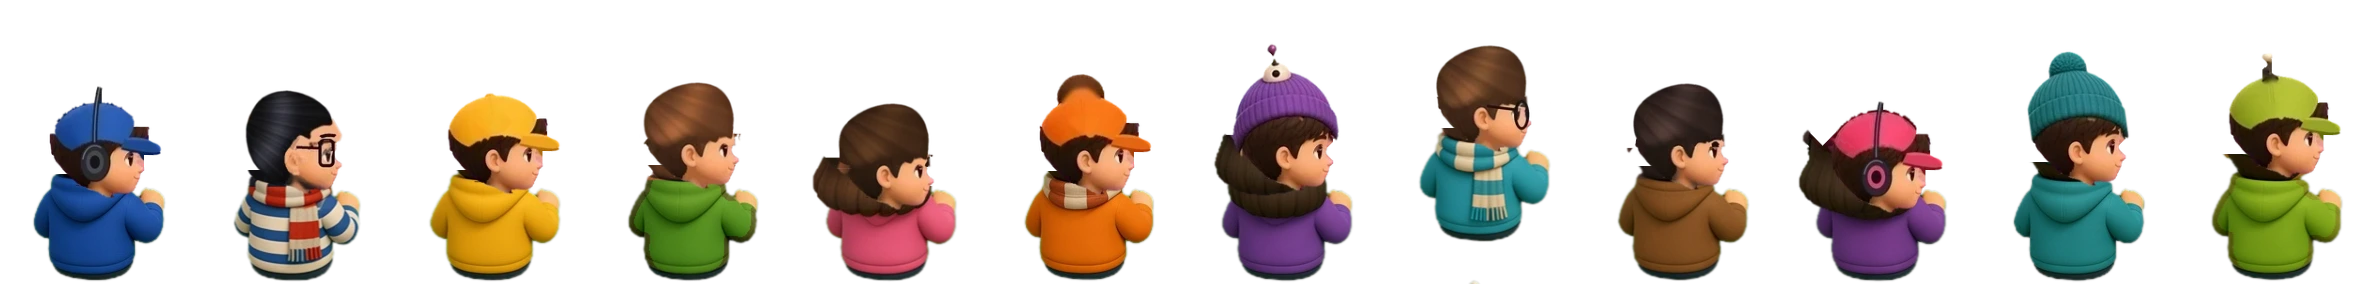
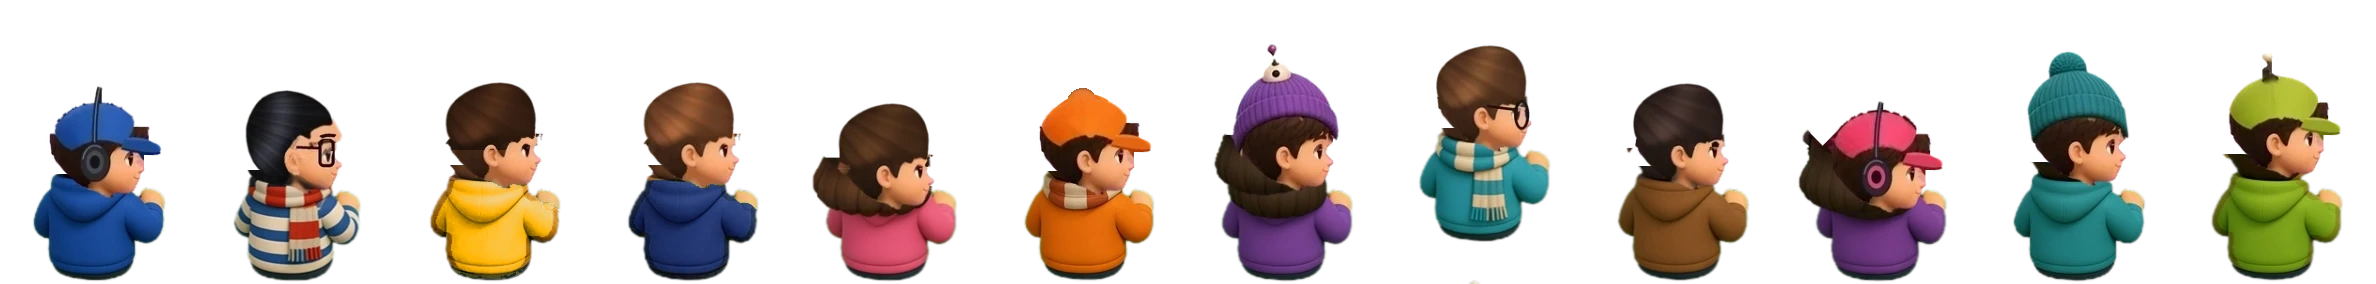
Characters and corgis: Cyber without the bun, Studio without the cap, LF in navy, dogs get fed snacks
- Cyber: the hair bun on the cap is gone and the cap's crown drawn on, in every view (back, front, side walk, all turn angles).
- Studio: no cap; drawn from LF's art with Studio's yellow hoodie and dark hair.
- LF: dark blue hoodie instead of green.
- Snack time: now and then a corgi asks a bot for food. It begs, dreaming of a biscuit; the bot turns to it, reaches into its
  hoodie pocket, holds a bone biscuit down to the dog, and the dog munches it in three bites with crumbs and little hearts.
  New mood `feed` in DOG_MOODS. The arm is drawn in the full picture only (TV lite keeps the begging and turning).
- Tools: portable/art/run-chars.js (from the pictures at 2eb30a1, safe to run again).

Changed region(s): [[0.1557, 0.2817, 0.3426, 0.9859], [0.436, 0.2535, 0.4672, 0.3662]]

diff --git a/public/office2d/main.js b/public/office2d/main.js
@@ -10,7 +10,7 @@ import { makeFx, glowSprite, px, polyPath } from './fx.js';
 import { BOTS, behaviorOf, LOITER, DOG_MOODS, DOG, WALK, PROPS, QUALITY, LITE, REFRESH } from './config.js';
 
 const STATIC = !!window.AC_STATIC; // GitHub Pages build (bin/pages-build.sh): relative URLs, state.json polled instead of /api/*
-const PW = 1280, PH = 720, A = (STATIC ? '' : '/') + 'office2d/assets/', V = '?v=25'; // V: busts the 1 h asset cache when the art set changes
+const PW = 1280, PH = 720, A = (STATIC ? '' : '/') + 'office2d/assets/', V = '?v=26'; // V: busts the 1 h asset cache when the art set changes
 const q = new URLSearchParams(location.search);
 const DEMO = q.get('demo') === '1', EMBED = q.get('embed') === '1', NOTAGS = q.get('notags') === '1'; // notags: screenshot aid only
 if (EMBED) document.body.classList.add('embed');
@@ -300,8 +300,8 @@ function turnTo(w, to, dur, dir, done) { // ease the body from where it is to `t
   P.from = P.b; P.to = to; P.t = 0; P.dur = dur * Math.max(0.55, Math.min(1, Math.abs(to - P.b) / 3)); P.p = 0; P.done = done || null; P.hold = 0; P.after = null;
   if (Math.abs(to - P.b) < 1e-3) { P.dur = 0; if (done) done(); }
 }
-function startTurn(w, hold, dir) {
-  if (!w || w.walk || w.seat.bag || w.seat.stand || w.seat.roam || w.chatting || w.pose.dur > 0 || w.pose.b > 0 || turnedNow() >= 2 || !L.turn.sprites[w.sprite]) return false; // no turn art (Dashboards): no idle turns
+function startTurn(w, hold, dir, force) { // force: a dog is being fed, the two-at-once limit does not apply
+  if (!w || w.walk || w.seat.bag || w.seat.stand || w.seat.roam || w.chatting || w.pose.dur > 0 || w.pose.b > 0 || (!force && turnedNow() >= 2) || !L.turn.sprites[w.sprite]) return false; // no turn art (Dashboards): no idle turns
   const P = w.pose;
   turnTo(w, rnd() < 0.65 ? 4 : 3, TURN_T, dir || (rnd() < 0.5 ? 1 : -1), () => { P.hold = hold ?? 2 + rnd() * 3; P.after = () => turnTo(w, 0, TURN_T + 0.1 * rnd()); });
   return true;
@@ -896,6 +896,19 @@ function dogMood(m, w) {
       const [node] = nearestNode(...at());
       return dogGo(node, span(1, 1.3), seq);
     }
+    case 'feed': { // ask a bot for food: sit, beg (dreaming of a biscuit), then the bot feeds it (stepFeeds / drawFeeds drive the rest)
+      w = w || pickFriend();
+      if (!w) return dogMood('rest');
+      d.by = w;
+      const at = () => w.walk ? [w.walk.x, w.walk.y] : w.seat.feet, face = () => { d.face = at()[0] > d.x ? 1 : -1; };
+      const serve = () => { face(); const side = d.x < at()[0] ? -1 : 1; let ok = true;
+        if (w.walk) w.walk.face = side; else if (w.seat.roam) w.dogLook = side;
+        else { const P = w.pose; if (P.b > 1.5 && P.dur === 0 && !w.chatting) { P.hold = Math.max(P.hold, 6.5); if (!P.after) P.after = () => turnTo(w, 0, TURN_T); } else ok = startTurn(w, 7.5, side, true); } // already turned round: it just stays a while
+        if (!ok) { d.seq = [['beg', span(1.2, 2)], ['sit', 1]]; return; } // busy right now: no snack this time
+        feeds.push({ w, d, side, t: w.walk || w.seat.roam ? -0.3 : -1.1, crumbs: [] }); }; // a seated bot swivels round first
+      const [node] = nearestNode(...at());
+      return dogGo(node, span(1, 1.3), [['sit', span(0.6, 1.1), face], ['beg', span(2.2, 3), () => { face(); d.think = 2.8; }], ['beg', 6, serve], ['sit', span(1, 2)]]);
+    }
     case 'nap': { const c = L.dog.rest.filter(r => r[1] === 'sleep'), r = c[(rnd() * c.length) | 0]; return dogGo(r[0], span(0.6, 0.9), [['sleep', span(30, 95)]]); }
     case 'rest': { const c = L.dog.rest.filter(r => r[1] === 'lie'), r = c[(rnd() * c.length) | 0]; return dogGo(r[0], span(0.6, 0.95), [['lie', span(14, 42)]]); }
     case 'beg': {
@@ -909,7 +922,7 @@ function dogMood(m, w) {
   }
 }
 function dogNext() {
-  const kb = loungeBots().length, M = DOG_MOODS, W = [['wander', M.wander], ['affection', DEMO ? 34 : M.affection], ['ask', M.ask], ['belly', M.belly], ['nap', M.nap], ['rest', M.rest], ['beg', kb ? M.begWithVisitors : M.beg], ['zoomies', M.zoomies]];
+  const kb = loungeBots().length, M = DOG_MOODS, W = [['wander', M.wander], ['affection', DEMO ? 34 : M.affection], ['ask', M.ask], ['belly', M.belly], ['nap', M.nap], ['rest', M.rest], ['beg', kb ? M.begWithVisitors : M.beg], ['zoomies', M.zoomies], ['feed', M.feed || 0]];
   let r = rnd() * W.reduce((a, b) => a + b[1], 0);
   for (const [m, wt] of W) if ((r -= wt) <= 0) return dogMood(m);
   dogMood('wander');
@@ -917,9 +930,12 @@ function dogNext() {
 function dogPetted(w) { const d = dog = w.walk.petDog; d.mood = 'happy'; d.by = w; d.path = []; d.v = 0; d.zoom = 0; d.face = w.walk.x > d.x ? 1 : -1; d.seq = [['happy', 3.6], ['sit', span(2, 4)]]; dogSeq(); dog = dogs[0]; }
 D.dogPut = (i, node) => { const d = dogs[i]; d.path = []; d.seq = []; d.v = 0; d.node = node; [d.x, d.y] = d.N[node]; d.pose = 'sit'; d.t = 600; return [d.x, d.y]; };
 D.dogAt = (i, x, y, pose = 'walk') => { const d = dogs[i]; d.path = []; d.seq = []; d.v = 0; d.x = x; d.y = y; d.pose = pose === 'walk' ? 'sniff' : pose; d.t = 600; return [d.x, d.y]; };
+D.dogFeed = (name, i = 0) => { const w = findWorker(name); if (!w || !dogs[i]) return false; dog = dogs[i]; dog.path = []; dog.seq = []; dog.v = 0; dogMood('feed', w); dog = dogs[0]; return true; }; // check aid
+D.feeds = () => feeds.map(f => ({ bot: f.w.bot.name, t: +f.t.toFixed(2), abort: !!f.abort }));
 D.dogMood = m => { if (!dog) return false; dog.path = []; dog.seq = []; dog.v = 0; dogMood(m); return true; };
 function stepDog(dt) {
   const d = dog;
+  if (d.think > 0) d.think -= dt;
   d.fs += (d.face - d.fs) * Math.min(1, dt * 9);
   if (d.pose !== 'walk') { if ((d.t -= dt) <= 0) dogSeq(); }
   else {
@@ -950,6 +966,7 @@ function drawDog(d, t) {
   else if (pose === 'beg') { sy = 1 + Math.sin(t * 3.4) * 0.022; rot = Math.sin(t * 5.5) * 0.02; }
   else if (pose === 'happy') { hop = Math.abs(Math.sin(t * 6.2)) * H * 0.075; rot = Math.sin(t * 12.4) * 0.03; }
   else if (pose === 'belly') { rot = Math.sin(t * 4.6) * 0.035; sy = 1 + Math.sin(t * 9) * 0.012; }
+  else if (pose === 'eat') { const c = Math.sin(t * 17); sy = 1 + c * 0.02; rot = 0.02 + Math.sin(t * 8.5) * 0.035; hop = Math.max(0, c) * H * 0.012; } // munching
   else if (pose === 'walk') hop = Math.abs(Math.sin(d.ph * Math.PI / 3)) * H * 0.012 * Math.min(2, d.pace);
   const dir = (d.fs < 0 ? -1 : 1) * Math.max(0.22, Math.abs(d.fs));
   P();
@@ -962,8 +979,83 @@ function drawDog(d, t) {
     ctx.globalAlpha = Math.sin(p * Math.PI) * 0.75;
     ctx.drawImage(zSpr, d.x + d.face * W * 0.3 + p * H * 0.28 - s / 2, d.y - H * 0.52 - p * H * 0.7 - s / 2, s, s);
   }
+  if (pose === 'eat') for (let i = 0; i < 3; i++) { // yum: little hearts rise while it munches
+    const p = (t * 0.55 + i / 3) % 1, s = H * (0.12 + 0.1 * p);
+    ctx.globalAlpha = Math.sin(p * Math.PI) * 0.85;
+    ctx.drawImage(heartSpr, d.x + d.face * W * 0.15 + Math.sin(p * 6 + i) * H * 0.12 - s / 2, d.y - H * 0.85 - p * H * 0.6 - s / 2, s, s);
+  }
+  if (d.think > 0) { const a = Math.min(1, d.think / 0.3, (3.1 - d.think) / 0.3), bw = H * 0.62, bh = bw * 0.75, bob = Math.sin(t * 2.4) * H * 0.02; // dreaming of a biscuit
+    ctx.globalAlpha = Math.max(0, a); ctx.drawImage(boneBubble, d.x + d.face * W * 0.18 - bw * 0.25, d.y - H * 1.05 - bh + bob, bw, bh); }
   ctx.globalAlpha = 1;
 }
+
+// ---------- snack time (David, 2026-11-10): now and then a dog asks a bot for food. It sits, begs and dreams of a biscuit; the bot turns
+// to it, reaches into its hoodie pocket, rummages, brings out a bone biscuit and holds it down to the dog's mouth; the dog eats it in three
+// bites (crumbs, little hearts), then hops about happily. Everything eases; the arm is drawn over the bot (sleeve in the bot's own hoodie
+// colour, then the hand). Full picture only: the lite (TV) picture keeps the begging and the turning, without the arm. ----------
+const feeds = [], FEED = { pocket: 0.45, out: 1.2, mouth: 2.25, bites: 3, eat: 3.1, done: 3.85 };
+const sleeveOf = (() => { const memo = {}; return w => { const k = w.sprite; if (memo[k]) return memo[k]; let c = '#7a6a8a'; try { const im = fronts[k], t = mk(1, 1), g = t.getContext('2d', { willReadFrequently: true }); g.drawImage(im, im.width * 0.3, im.height * 0.8, 6, 6, 0, 0, 1, 1); const d = g.getImageData(0, 0, 1, 1).data; c = `rgb(${d[0]},${d[1]},${d[2]})`; } catch (e) {} return (memo[k] = c); }; })();
+const dogDims = d => { const C = L.corgi, hu = hAt(d.y), [cw, ch] = C.cell, W = 0.507 * DOG.size * hu / C.bodyW; return [W, W * ch / cw]; };
+const mouthOf = d => { const [W, H] = dogDims(d), f = d.face < 0 ? -1 : 1; return [d.x + f * W * 0.3, d.y - H * (d.pose === 'beg' ? 0.74 : 0.62)]; };
+function stepFeeds(dt) {
+  for (let i = feeds.length - 1; i >= 0; i--) {
+    const f = feeds[i], w = f.w, d = f.d, prev = f.t; f.t += dt;
+    const gone = w.walk ? w.walk.phase !== 'hang' && w.walk.phase !== 'talk' : w.seat.roam ? false : w.pose.b < 2 && f.t > 0.2 && f.t < FEED.eat; // the bot walked off or turned back
+    if (gone && !f.abort) { f.abort = true; f.t = Math.max(f.t, FEED.eat); }
+    if (!f.abort && prev < FEED.out && f.t >= FEED.out && w.walk) say(w.walk, ['here you go!', 'good pup 🍪', 'snack time!'][(rnd() * 3) | 0], 2.2);
+    if (!f.abort && prev < FEED.mouth && f.t >= FEED.mouth && d.by === w && d.mood === 'feed') { d.pose = 'eat'; d.t = 2.6; d.seq = [['happy', span(1.8, 2.6), () => { d.face = (w.walk ? w.walk.x : w.seat.feet[0]) > d.x ? 1 : -1; }], ['sit', span(1, 2)]]; }
+    if (!f.abort) for (let b = 0; b < FEED.bites; b++) { const tb = FEED.mouth + 0.12 + b * 0.27; if (prev < tb && f.t >= tb) { const [mx, my] = mouthOf(d), s = dogDims(d)[1] * 0.05; for (let j = 0; j < 4; j++) f.crumbs.push({ x: mx, y: my, vx: (rnd() - 0.5) * s * 9, vy: -rnd() * s * 6, life: 0.7 + rnd() * 0.4, s: s * (0.25 + rnd() * 0.3) }); } }
+    for (const c of f.crumbs) { c.life -= dt; c.vy += 140 * dt * (c.s > 0 ? 1 : 0); c.x += c.vx * dt; c.y += c.vy * dt; }
+    f.crumbs = f.crumbs.filter(c => c.life > 0);
+    if (f.t > FEED.done + 0.8) feeds.splice(i, 1);
+  }
+}
+function drawBiscuit(x, y, s, rot) { // a little bone biscuit
+  ctx.save(); ctx.translate(x, y); ctx.rotate(rot);
+  ctx.fillStyle = '#9a6a3c'; for (const [a, b] of [[-1, -0.55], [-1, 0.55], [1, -0.55], [1, 0.55]]) { ctx.beginPath(); ctx.arc(a * s * 0.95, b * s * 0.62, s * 0.52, 0, 7); ctx.fill(); }
+  ctx.fillRect(-s, -s * 0.42, s * 2, s * 0.84);
+  ctx.fillStyle = '#e9c48c'; for (const [a, b] of [[-1, -0.55], [-1, 0.55], [1, -0.55], [1, 0.55]]) { ctx.beginPath(); ctx.arc(a * s * 0.95, b * s * 0.62, s * 0.4, 0, 7); ctx.fill(); }
+  ctx.fillRect(-s, -s * 0.3, s * 2, s * 0.6); ctx.fillStyle = 'rgba(255,245,225,.6)'; ctx.fillRect(-s * 0.8, -s * 0.24, s * 1.4, s * 0.14);
+  ctx.restore();
+}
+function drawFeeds(t) {
+  if (!feeds.length) return;
+  P();
+  for (const f of feeds) {
+    const w = f.w, d = f.d, b = w.box, bw = b[2] - b[0], bh = b[3] - b[1], cx = (b[0] + b[2]) / 2, seated = !w.walk && !w.seat.roam, side = f.side;
+    for (const c of f.crumbs) { ctx.globalAlpha = Math.min(1, c.life * 2); ctx.fillStyle = '#d7aa6a'; ctx.beginPath(); ctx.arc(c.x, c.y, Math.max(0.6, c.s), 0, 7); ctx.fill(); }
+    ctx.globalAlpha = 1;
+    if (f.t < 0 || f.t > FEED.done) continue;
+    const sh = [cx + side * bw * (seated ? 0.17 : 0.27), b[1] + bh * (seated ? 0.46 : 0.47)], pk = [cx + side * bw * (seated ? 0.07 : 0.11), b[1] + bh * (seated ? 0.57 : 0.62)];
+    const [mx, my] = mouthOf(d), s = Math.max(2.2, dogDims(d)[1] * 0.075), hand = [mx - (d.face < 0 ? -1 : 1) * s * 1.5, my + s * 0.2];
+    const T = f.t, E = q => q * q * (3 - 2 * q), lerp2 = (a, c, q) => [a[0] + (c[0] - a[0]) * q, a[1] + (c[1] - a[1]) * q];
+    let p, alpha = 1, snack = 0;
+    if (T < FEED.pocket) { p = lerp2(sh, pk, E(T / FEED.pocket)); alpha = Math.min(1, T / 0.15); }
+    else if (T < FEED.out) p = [pk[0] + Math.sin(T * 28) * s * 0.3, pk[1] + Math.sin(T * 21) * s * 0.2]; // rummaging in the pocket
+    else if (T < FEED.mouth) { const q = E((T - FEED.out) / (FEED.mouth - FEED.out)), ctl = [(pk[0] + hand[0]) / 2, Math.min(pk[1], hand[1]) - bh * 0.1];
+      p = [(1 - q) * (1 - q) * pk[0] + 2 * (1 - q) * q * ctl[0] + q * q * hand[0], (1 - q) * (1 - q) * pk[1] + 2 * (1 - q) * q * ctl[1] + q * q * hand[1]]; snack = 1; }
+    else if (T < FEED.eat) { const bi = Math.min(FEED.bites, Math.floor((T - FEED.mouth - 0.12) / 0.27) + 1); p = [hand[0] + Math.sin((T - FEED.mouth) * 23) * s * 0.12, hand[1]]; snack = [1, 0.68, 0.38, 0][Math.max(0, bi)]; }
+    else { const q = E(Math.min(1, (T - FEED.eat) / (FEED.done - FEED.eat))); p = lerp2(hand, sh, q); alpha = 1 - Math.max(0, (q - 0.6) / 0.4); }
+    if (f.abort) snack = 0;
+    // the arm: shoulder -> elbow (bent out and down a little) -> wrist, a soft dark edge under the sleeve
+    const dx = p[0] - sh[0], dy = p[1] - sh[1], len = Math.hypot(dx, dy) || 1, nx = -dy / len, ny = dx / len, bend = Math.min(bh * 0.07, len * 0.22) * (ny > 0 ? 1 : -1) * side;
+    const el = [(sh[0] + p[0]) / 2 + nx * bend, (sh[1] + p[1]) / 2 + ny * bend], th = bh * (seated ? 0.05 : 0.055);
+    ctx.globalAlpha = alpha; ctx.lineCap = 'round'; ctx.lineJoin = 'round';
+    ctx.strokeStyle = 'rgba(20,14,24,.55)'; ctx.lineWidth = th + 1.6; ctx.beginPath(); ctx.moveTo(...sh); ctx.quadraticCurveTo(...el, ...p); ctx.stroke();
+    ctx.strokeStyle = sleeveOf(w); ctx.lineWidth = th; ctx.beginPath(); ctx.moveTo(...sh); ctx.quadraticCurveTo(...el, ...p); ctx.stroke();
+    ctx.strokeStyle = 'rgba(255,255,255,.14)'; ctx.lineWidth = th * 0.35; ctx.beginPath(); ctx.moveTo(sh[0] - nx * th * 0.2, sh[1] - ny * th * 0.2); ctx.quadraticCurveTo(el[0] - nx * th * 0.2, el[1] - ny * th * 0.2, p[0], p[1]); ctx.stroke();
+    if (snack > 0) drawBiscuit(p[0] + (d.face < 0 ? 1 : -1) * -s * 0.9, p[1] - s * 0.15, s * 0.62 * snack, -0.35 * (d.face < 0 ? -1 : 1));
+    ctx.fillStyle = '#5a3a2c'; ctx.beginPath(); ctx.ellipse(p[0], p[1], th * 0.62, th * 0.55, 0, 0, 7); ctx.fill();
+    ctx.fillStyle = '#f3c6a2'; ctx.beginPath(); ctx.ellipse(p[0], p[1], th * 0.5, th * 0.45, 0, 0, 7); ctx.fill();
+    ctx.fillStyle = 'rgba(255,240,228,.5)'; ctx.beginPath(); ctx.ellipse(p[0] - th * 0.12, p[1] - th * 0.14, th * 0.2, th * 0.13, 0, 0, 7); ctx.fill();
+    ctx.globalAlpha = 1;
+  }
+}
+const heartSpr = (() => { const c = mk(48, 48), g = c.getContext('2d'); g.font = '700 34px sans-serif'; g.textAlign = 'center'; g.textBaseline = 'middle'; g.shadowColor = 'rgba(255,170,190,.9)'; g.shadowBlur = 6; g.fillStyle = '#ff7aa2'; g.fillText('♥', 24, 26); return c; })();
+const boneBubble = (() => { const c = mk(96, 72), g = c.getContext('2d'); g.fillStyle = 'rgba(255,255,255,.94)'; g.strokeStyle = 'rgba(60,40,50,.35)'; g.lineWidth = 2;
+  g.beginPath(); g.roundRect(8, 4, 80, 46, 22); g.fill(); g.stroke(); for (const [x, y, r] of [[30, 56, 6], [20, 66, 4]]) { g.beginPath(); g.arc(x, y, r, 0, 7); g.fill(); g.stroke(); }
+  g.save(); g.translate(48, 27); g.rotate(-0.25); g.fillStyle = '#c99858'; for (const [a, b] of [[-1, -1], [-1, 1], [1, -1], [1, 1]]) { g.beginPath(); g.arc(a * 17, b * 6, 7, 0, 7); g.fill(); } g.fillRect(-17, -5, 34, 10);
+  g.fillStyle = '#efd09c'; for (const [a, b] of [[-1, -1], [-1, 1], [1, -1], [1, 1]]) { g.beginPath(); g.arc(a * 17, b * 6, 5.4, 0, 7); g.fill(); } g.fillRect(-17, -3.6, 34, 7.2); g.restore(); return c; })();
 
 // ---------- boss desk FX: screen glow, scanline shimmer on the 2 curved monitors ----------
 const scanSpr = (() => { const c = mk(64, 128), g = c.getContext('2d');
@@ -1380,6 +1472,7 @@ function render(t, dt) {
   const redraw = (screenT -= dt) <= 0; if (redraw) screenT = 0.12;
   const walking = sortItems();
   for (let i = 0; i < items.length; i++) drawItem(items[i], t, redraw);
+  drawFeeds(t);
   drawErrorGlows(t);
   fx.lamps(ctx, t, env, lampTint);
   fx.motes(ctx, t, dt, env);
@@ -1554,7 +1647,7 @@ function frame(now) {
   }
   maybeDemo(t); if (pending.length) pump(now);
   stepChat(dt); stepAmbient(dt);
-  if (dogs.length) { for (const d of dogs) { dog = d; stepDog(dt); } dog = dogs[0]; }
+  if (dogs.length) { for (const d of dogs) { dog = d; stepDog(dt); } dog = dogs[0]; stepFeeds(dt); }
   if ((labelT -= dt) <= 0) { labelT = LABEL_EVERY; refreshLabels(); }
   if (qual.lite) renderLite(t, dt); else render(t, dt);
   fpsN++; D.frames++;

diff --git a/portable/art/chars.js b/portable/art/chars.js
@@ -1,0 +1,91 @@
+// Character fixes (David, 2026-11-10), run in a browser page by portable/art/run-chars.js. Not loaded by the site.
+//  - Cyber (sprite 5): the hair bun on top of the cap is taken off and the cap's crown drawn on where it sat.
+//  - Studio (sprite 2): no cap. Studio is drawn from LF's art (the same chibi, same pose), the hoodie recoloured to Studio's own
+//    yellow and the hair darkened to the dark brown that showed under the cap.
+//  - LF (sprite 3): dark blue hoodie instead of green.
+// Every picture a bot is drawn from is changed: back (wNN.png), front (fNN.png), side walk (walk-side.webp), turning heads and bodies.
+// Input: the pictures as they were at commit 2eb30a1 (src), so this can run again. Output: window.__charsOut (data URLs).
+const im = s => new Promise((ok, no) => { const i = new Image(); i.onload = () => ok(i); i.onerror = () => no(new Error('load ' + s)); i.src = s; });
+const cv = (w, h) => { const c = document.createElement('canvas'); c.width = w; c.height = h; return c; };
+const cx = c => c.getContext('2d', { willReadFrequently: true });
+function hsl(r, g, b) { r /= 255; g /= 255; b /= 255; const mx = Math.max(r, g, b), mn = Math.min(r, g, b), l = (mx + mn) / 2; if (mx === mn) return [0, 0, l]; const d = mx - mn, s = l > 0.5 ? d / (2 - mx - mn) : d / (mx + mn); let h = mx === r ? (g - b) / d + (g < b ? 6 : 0) : mx === g ? (b - r) / d + 2 : (r - g) / d + 4; return [h * 60, s, l]; }
+function rgb(h, s, l) { h = ((h % 360) + 360) % 360 / 360; if (!s) return [l * 255, l * 255, l * 255]; const q = l < 0.5 ? l * (1 + s) : l + s - l * s, p = 2 * l - q, f = t => { t = (t + 1) % 1; return 255 * (t < 1 / 6 ? p + (q - p) * 6 * t : t < 0.5 ? q : t < 2 / 3 ? p + (q - p) * (2 / 3 - t) * 6 : p); }; return [f(h + 1 / 3), f(h), f(h - 1 / 3)]; }
+const isGreen = (h, s, l) => h >= 58 && h <= 170 && s > 0.18 && l > 0.06;
+const isHair = (h, s, l) => h >= 5 && h <= 42 && s > 0.15 && l < 0.5 && l > 0.04; // brown, darker than skin
+const isOrange = (r, g, b) => { const [h, s, l] = hsl(r, g, b); return h >= 12 && h <= 42 && s > 0.55 && l > 0.32; };
+// mean H, S, L of the pixels a test picks (opaque only)
+function stats(d, test, y0 = 0, y1 = 1e9, W = 1) { let h = 0, s = 0, l = 0, n = 0; for (let i = 0; i < d.length; i += 4) { if (d[i + 3] < 200) continue; const y = Math.floor(i / 4 / W); if (y < y0 || y >= y1) continue; const c = hsl(d[i], d[i + 1], d[i + 2]); if (!test(...c)) continue; h += c[0]; s += c[1]; l += c[2]; n++; } return n ? [h / n, s / n, l / n] : null; }
+// recolour the pixels a test picks: hue to the target, saturation and lightness scaled so the mean lands on the target's
+function recolor(d, test, from, to, region = () => true, W = 1) {
+  for (let i = 0; i < d.length; i += 4) { if (!d[i + 3]) continue; const p = i / 4; if (!region(p % W, Math.floor(p / W))) continue; const [h, s, l] = hsl(d[i], d[i + 1], d[i + 2]); if (!test(h, s, l)) continue;
+    const c = rgb(to[0] + (h - from[0]) * 0.25, Math.min(1, s * to[1] / from[1]), Math.min(0.95, l * to[2] / from[2])); d[i] = c[0]; d[i + 1] = c[1]; d[i + 2] = c[2]; }
+}
+const darkenHair = (d, region, W, f = 0.52) => { for (let i = 0; i < d.length; i += 4) { if (!d[i + 3]) continue; const p = i / 4; if (!region(p % W, Math.floor(p / W))) continue; const c = hsl(d[i], d[i + 1], d[i + 2]); if (!isHair(...c)) continue; d[i] *= f; d[i + 1] *= f * 0.97; d[i + 2] *= f * 0.95; } };
+// take the bun off the top of a cap: the bun is the non-orange blob the topmost pixels belong to; then the crown is drawn on, column by
+// column, up to a dome fitted to the cap's own top edge either side
+function unBun(d, W, H, x0, y0, w, h) {
+  const at = (x, y) => ((y0 + y) * W + x0 + x) * 4, op = (x, y) => d[at(x, y) + 3] > 40;
+  let sx = -1, sy = -1; for (let y = 0; y < h && sx < 0; y++) for (let x = 0; x < w; x++) if (d[at(x, y) + 3] > 120) { sx = x; sy = y; break; }
+  if (sx < 0) return 0;
+  const o0 = at(sx, sy); if (isOrange(d[o0], d[o0 + 1], d[o0 + 2])) return 0; // nothing on top of the cap
+  const bun = new Uint8Array(w * h), st = [[sx, sy]]; bun[sy * w + sx] = 1; let n = 0;
+  while (st.length) { const [x, y] = st.pop(); n++; for (const [dx, dy] of [[1, 0], [-1, 0], [0, 1], [0, -1]]) { const X = x + dx, Y = y + dy; if (X < 0 || Y < 0 || X >= w || Y >= h || bun[Y * w + X] || !op(X, Y)) continue; const o = at(X, Y); if (isOrange(d[o], d[o + 1], d[o + 2])) continue; bun[Y * w + X] = 1; st.push([X, Y]); } }
+  // the bun's rim where it met the cap: darker pixels right next to it
+  for (let pass = 0; pass < 2; pass++) { const add = []; for (let y = 1; y < h - 1; y++) for (let x = 1; x < w - 1; x++) { if (bun[y * w + x] || !op(x, y)) continue; if (!(bun[y * w + x - 1] || bun[y * w + x + 1] || bun[(y - 1) * w + x] || bun[(y + 1) * w + x])) continue; const o = at(x, y), l = hsl(d[o], d[o + 1], d[o + 2])[2]; if (l < 0.5 || d[o + 3] < 200) add.push(y * w + x); } for (const i of add) bun[i] = 1; }
+  let bx0 = w, bx1 = 0, by1 = 0; for (let y = 0; y < h; y++) for (let x = 0; x < w; x++) if (bun[y * w + x]) { bx0 = Math.min(bx0, x); bx1 = Math.max(bx1, x); by1 = Math.max(by1, y); d[at(x, y) + 3] = 0; }
+  // the cap's top edge either side of the bun -> a quadratic dome
+  const top = x => { for (let y = 0; y < h; y++) if (d[at(x, y) + 3] > 128) return y; return -1; };
+  const pts = []; for (let x = Math.max(0, bx0 - 26); x < Math.min(w, bx1 + 27); x++) { if (x >= bx0 - 1 && x <= bx1 + 1) continue; const y = top(x); if (y < 0) continue; const o = at(x, y + 2); if (isOrange(d[o], d[o + 1], d[o + 2])) pts.push([x, y]); }
+  if (pts.length < 6) return n;
+  const m = [0, 0, 0, 0, 0, 0, 0, 0, 0], v = [0, 0, 0]; for (const [x, y] of pts) { const f = [1, x, x * x]; for (let a = 0; a < 3; a++) { v[a] += f[a] * y; for (let b = 0; b < 3; b++) m[a * 3 + b] += f[a] * f[b]; } }
+  const det = M => M[0] * (M[4] * M[8] - M[5] * M[7]) - M[1] * (M[3] * M[8] - M[5] * M[6]) + M[2] * (M[3] * M[7] - M[4] * M[6]);
+  const D0 = det(m), c = [0, 1, 2].map(k => { const M = m.slice(); for (let a = 0; a < 3; a++) M[a * 3 + k] = v[a]; return det(M) / D0; });
+  const dome = x => c[0] + c[1] * x + c[2] * x * x;
+  // per column: from the dome down to the bottom of the bun's footprint (or a few px into the old edge), in the cap's colour just below,
+  // smoothed across columns so the seams under the bun leave no stripes
+  const xa = Math.max(0, bx0 - 3), xb = Math.min(w - 1, bx1 + 3), yEnd = [], base = [];
+  for (let x = xa; x <= xb; x++) { let e = -1; for (let y = 0; y < h; y++) if (bun[y * w + x]) e = y; const t0 = top(x); yEnd.push(e >= 0 ? e + 2 : t0 >= 0 ? t0 + 2 : -1); }
+  for (let x = xa; x <= xb; x++) { const e = yEnd[x - xa]; let r = 0, g = 0, b = 0, k = 0; if (e >= 0) for (let y = e + 1; y < Math.min(h, e + 7); y++) for (let X = Math.max(0, x - 3); X <= Math.min(w - 1, x + 3); X++) { const o = at(X, y); if (d[o + 3] > 200 && isOrange(d[o], d[o + 1], d[o + 2])) { r += d[o]; g += d[o + 1]; b += d[o + 2]; k++; } } base.push(k ? [r / k, g / k, b / k] : null); }
+  const sm = base.map((c, i) => { if (!c) return null; let r = 0, g = 0, b = 0, k = 0; for (let j = Math.max(0, i - 3); j <= Math.min(base.length - 1, i + 3); j++) if (base[j]) { r += base[j][0]; g += base[j][1]; b += base[j][2]; k++; } return [r / k, g / k, b / k]; });
+  for (let x = xa; x <= xb; x++) { const c = sm[x - xa], e = yEnd[x - xa]; if (!c || e < 0) continue; const yt = Math.max(0, dome(x)); if (yt >= e || e - yt > 50) continue;
+    for (let y = Math.floor(yt); y <= e; y++) { const o = at(x, y), f = (y - yt) / Math.max(1, e - yt), lift = 1 + 0.07 * (1 - f), a = y === Math.floor(yt) ? 1 - (yt - Math.floor(yt)) : 1;
+      const blend = y > e - 2 ? 0.5 : 1; // the last rows melt into the cap below
+      for (let ch = 0; ch < 3; ch++) d[o + ch] = d[o + 3] > 200 && blend < 1 ? d[o + ch] * (1 - blend) + Math.min(255, c[ch] * lift) * blend : Math.min(255, c[ch] * lift);
+      d[o + 3] = Math.round(255 * a); } }
+  // faint leftovers of the bun's soft outline outside the new cap
+  for (let y = 0; y < Math.min(h, by1 + 4); y++) for (let x = xa; x <= xb; x++) { const o = at(x, y); if (d[o + 3] && d[o + 3] < 150 && !isOrange(d[o], d[o + 1], d[o + 2]) && (y < Math.max(0, dome(x)) - 0.5 || bun[y * w + x])) d[o + 3] = 0; }
+  return n;
+}
+export async function run(src) {
+  const L = await fetch(src + 'layout.json').then(r => r.json()), out = {}, log = [];
+  const load = async f => { const i = await im(src + f), c = cv(i.width, i.height), g = cx(c); g.drawImage(i, 0, 0); return { c, g, id: g.getImageData(0, 0, c.width, c.height) }; };
+  const save = (k, p, type = 'image/png', q) => { p.g.putImageData(p.id, 0, 0); out[k] = p.c.toDataURL(type, q); };
+  // Studio's own yellow, LF's green: the recolour targets
+  const f02 = await load('f02.png'), f03 = await load('f03.png');
+  const yellow = stats(f02.id.data, (h, s, l) => h >= 38 && h <= 58 && s > 0.45, 125, 1e9, f02.c.width), green = stats(f03.id.data, isGreen, 125, 1e9, f03.c.width), navy = [222, 0.5, 0.27];
+  log.push({ yellow, green });
+  // flat sprites: back, front
+  for (const [st, lf, cy] of [['w02.png', 'w03.png', 'w05.png'], ['f02.png', 'f03.png', 'f05.png']]) {
+    const S = await load(lf); const W = S.c.width; recolor(S.id.data, isGreen, green, yellow, () => true, W); darkenHair(S.id.data, (x, y) => y < 125, W); save(st, S);
+    const F = await load(lf); recolor(F.id.data, isGreen, green, navy, () => true, W); save(lf, F);
+    const C = await load(cy); log.push([cy, unBun(C.id.data, C.c.width, C.c.height, 0, 0, C.c.width, 90)]); save(cy, C);
+  }
+  // side walk: one 198 x 284 cell per sprite
+  { const ws = await load(L.walkSide.file), [cw, ch] = L.walkSide.cell, W = ws.c.width, d = ws.id.data;
+    const g2 = cx(cv(cw, ch)); g2.putImageData(ws.id, -3 * cw, 0); const lfCell = g2.getImageData(0, 0, cw, ch); // LF's cell, untouched
+    recolor(lfCell.data, isGreen, green, yellow, () => true, cw); darkenHair(lfCell.data, (x, y) => y < 150, cw);
+    for (let y = 0; y < ch; y++) for (let x = 0; x < cw; x++) { const o = (y * W + 2 * cw + x) * 4, p = (y * cw + x) * 4; for (let k = 0; k < 4; k++) d[o + k] = lfCell.data[p + k]; }
+    recolor(d, isGreen, green, navy, (x) => x >= 3 * cw && x < 4 * cw, W);
+    log.push(['walk-side bun', unBun(d, W, ws.c.height, 5 * cw, 0, cw, 150)]);
+    save(L.walkSide.file, ws, 'image/webp', 0.95); }
+  // turning heads (6 yaws x 12 rows): Studio's row is LF's with darker hair; Cyber's buns come off
+  { const th = await load(L.turn.heads), [cw, ch] = L.turn.head, W = th.c.width, d = th.id.data;
+    for (let y = 0; y < ch; y++) for (let x = 0; x < W; x++) { const o = ((2 * ch + y) * W + x) * 4, s = ((3 * ch + y) * W + x) * 4; for (let k = 0; k < 4; k++) d[o + k] = d[s + k]; }
+    darkenHair(d, (x, y) => y >= 2 * ch && y < 3 * ch, W);
+    const nb = []; for (let i = 0; i < L.turn.yaws; i++) nb.push(unBun(d, W, th.c.height, i * cw, 5 * ch, cw, 120)); log.push(['heads buns', nb]);
+    save(L.turn.heads, th, 'image/webp', 0.95); }
+  // turning bodies: LF's hoodie navy (Studio keeps its own yellow body)
+  { const tb = await load(L.turn.bodies), [cw, ch] = L.turn.cell, W = tb.c.width; recolor(tb.id.data, isGreen, green, navy, (x, y) => y >= 3 * ch && y < 4 * ch, W); save(L.turn.bodies, tb, 'image/webp', 0.95); }
+  window.__charsOut = out;
+  return log;
+}

diff --git a/portable/art/run-chars.js b/portable/art/run-chars.js
@@ -1,0 +1,31 @@
+#!/usr/bin/env node
+'use strict';
+/**
+ * Character fixes (portable/art/chars.js): Cyber without the hair bun, Studio without the cap, LF in a dark blue hoodie.
+ *   node portable/art/run-chars.js <out-dir> [--install]
+ * Starts from the pictures as they were at commit 2eb30a1, so it can be run again. --install writes them into public/office2d/assets and
+ * gives Studio's sprite entries LF's measurements (Studio is now drawn from LF's art). Needs the preview server (node portable/serve.js).
+ */
+const { execFileSync } = require('child_process');
+const fs = require('fs'), path = require('path');
+const out = path.resolve(process.argv[2] || 'chars'), install = process.argv.includes('--install'), root = path.resolve(__dirname, '..', '..'), prev = path.join(root, 'portable', 'preview');
+const SRC = '2eb30a1', FILES = ['layout.json', 'w02.png', 'w03.png', 'w05.png', 'f02.png', 'f03.png', 'f05.png', 'walk-side.webp', 'turn-heads.webp', 'turn-bodies.webp'];
+fs.mkdirSync(out, { recursive: true }); fs.mkdirSync(path.join(prev, 'chars-src'), { recursive: true });
+for (const f of FILES) fs.writeFileSync(path.join(prev, 'chars-src', f), execFileSync('git', ['show', `${SRC}:public/office2d/assets/${f}`], { cwd: root, maxBuffer: 1 << 28 }));
+fs.copyFileSync(path.join(__dirname, 'chars.js'), path.join(prev, 'chars.js'));
+const res = execFileSync(process.execPath, [path.join(root, 'portable', 'shot.js'), '--url', 'http://127.0.0.1:8791/?q=0&notags=1', '--size', '400x300', '--wait', '1',
+  '--js', "import('/chars.js').then(m => m.run('/chars-src/')).then(r => { window.__charsDone = r; }, e => { window.__charsDone = { error: String(e && e.stack || e) }; })",
+  '--print', 'JSON.stringify({ done: window.__charsDone, out: window.__charsOut })', '--out', path.join(out, 'page.png')], { maxBuffer: 1 << 30 }).toString();
+const j = JSON.parse(JSON.parse(res.split('\n').find(l => l.startsWith('"{'))));
+console.log(JSON.stringify(j.done).slice(0, 400));
+if (!j.out) process.exit(1);
+for (const [k, v] of Object.entries(j.out)) fs.writeFileSync(path.join(out, k), Buffer.from(v.split(',')[1], 'base64'));
+if (install) {
+  const A = path.join(root, 'public', 'office2d', 'assets');
+  for (const k of Object.keys(j.out)) fs.copyFileSync(path.join(out, k), path.join(A, k));
+  const lp = path.join(A, 'layout.json'), L = JSON.parse(fs.readFileSync(lp, 'utf8'));
+  for (const k of ['w', 'h', 'hem', 'hemF']) L.sprites[2][k] = L.sprites[3][k];
+  L.walkSide.hem[2] = L.walkSide.hem[3];
+  fs.writeFileSync(lp, JSON.stringify(L));
+  console.log('installed', Object.keys(j.out).join(' '));
+}

diff --git a/public/office2d/config.js b/public/office2d/config.js
@@ -35,8 +35,9 @@ export const LOITER = { tripEvery: [5, 18], tripStay: [10, 32] };
 
 // Corgi moods: bigger number = picked more often. David (2026-11-10): the dogs only act cute or ask a bot for attention, so the moods
 // aimed at a bot dominate. affection: trot up, happy wiggle. ask: beg at a bot until it answers. belly: roll over at a bot's feet.
+// feed: ask a bot for food; it reaches into its pocket and feeds the dog a biscuit (David, 2026-11-10).
 // beg / begWithVisitors: beg near the lounge visitors. wander and zoomies (running about alone) are off; nap and rest are short breaks.
-export const DOG_MOODS = { wander: 0, affection: 30, ask: 26, belly: 12, nap: 6, rest: 5, beg: 4, begWithVisitors: 30, zoomies: 0 };
+export const DOG_MOODS = { wander: 0, affection: 24, ask: 10, feed: 24, belly: 12, nap: 6, rest: 5, beg: 4, begWithVisitors: 30, zoomies: 0 };
 // Corgi size: 1 = the original size, 1.5 = 50% bigger (David, 2026-11-10).
 export const DOG = { size: 1.5 };
 // Walking: at most this many bots move about the room at once (David, 2026-11-10: no more than 3). Others wait their turn: a trip, a visit

diff --git a/AGENTS.md b/AGENTS.md
@@ -40,9 +40,10 @@ David's decision, 2026-11-09: when Claude on DPro and another bot disagree, Clau
 
 - `docs/ART_BRIEFS.md`: past art requests and how room art is fitted (all done in code by now).
 - `public/office2d/config.js`: bot behaviour, chat lines, dog moods and size (`DOG`), how many bots may walk at once and which ones may take breaks (`WALK`: only the quieter half by usage), extra items, speed settings. Try here first.
-- `public/office2d/`: the viewer. `main.js` runs the scene, `fx.js` the city (and the night fireworks over the river), `screens.js` the monitor pictures, `boats.js` the harbour boats (drawn in code; add a kind there).
+- `public/office2d/`: the viewer. `main.js` runs the scene (including the corgis' snack time: a bot reaches into its pocket and feeds a dog), `fx.js` the city (the night fireworks, and the sun and moon light paths on the river), `screens.js` the monitor pictures, `boats.js` the harbour boats (drawn in code; add a kind there).
 - In `main.js`: `KIT` (kitchen task: the coffee pour; the fridge animation was removed), `ERASE` (details painted out of the room pictures), the wall clock (`drawClock`).
-- `portable/art/`: tools that repaint art in a headless browser. `run.js`: head holes, side-view walk bodies (`walk-side.webp`); run on the original pictures only. `run-room.js` (with `room.js`, `inpaint.js`): the room pictures. It removes the foreground bamboo, turns the desks into dark walnut desks with slim legs and no drawers, and rebuilds the chair-less floor patches. It always starts from the seed pictures (commit 83b9edb), so it is safe to run again after changing `room.js`. `run-scene.js` (with `scene.js`) builds today's office on top of that: one clean floor, the black four-leg desks, a monitor per bot, the seating plan (`PLAN` in `scene.js`), chairs, the chair-less patches, the front desks' cut-outs and `layout.json`; `--install` copies the result into `public/office2d/assets`. Change seats or desks there, not by hand. `run-heads-trim.js`: the side-pose hair trim (already applied; run once only).
+- `public/audio.js`: the music button. It plays "Lofi Trance Mix" by Velvet Vinyl in YouTube's embedded player (first 30 minutes, looping; the player stays visible while it plays, as YouTube requires) and falls back to the generated lofi when YouTube cannot load. Never download or re-host the track.
+- `portable/art/`: tools that repaint art in a headless browser. `run.js`: head holes, side-view walk bodies (`walk-side.webp`); run on the original pictures only. `run-room.js` (with `room.js`, `inpaint.js`): the room pictures. It removes the foreground bamboo, turns the desks into dark walnut desks with slim legs and no drawers, and rebuilds the chair-less floor patches. It always starts from the seed pictures (commit 83b9edb), so it is safe to run again after changing `room.js`. `run-scene.js` (with `scene.js`) builds today's office on top of that: one clean floor, the black four-leg desks, a monitor per bot, the seating plan (`PLAN` in `scene.js`), chairs, the chair-less patches, the front desks' cut-outs and `layout.json`; `--install` copies the result into `public/office2d/assets`. Change seats or desks there, not by hand. `run-heads-trim.js`: the side-pose hair trim (already applied; run once only). Since 2026-11-10 `scene.js` also draws the kitchen corner (fridge and stand in one three-quarter view) and the window band behind the back-right desk (river, balcony rail, frame), and writes `water-mask.png`; both room tools read the layout from before the first scene build (commit 74a4042), so they can run again on their own output. `run-chars.js` (with `chars.js`): Cyber without the hair bun, Studio without the cap (drawn from LF's art, yellow hoodie, dark hair), LF in a dark blue hoodie; it starts from the pictures at commit 2eb30a1.
 - `public/office2d/assets/`: art. Positions are in `layout.json`.
 - `bin/pages.sh`, `bin/pages-pull.sh`: the publisher. Change only with David's approval.
 - Pages auto-publish on the shared computer: `bin/pages-watch.sh start|stop|status` runs `bin/pages.sh tick` every 60 s. It does not touch Funnel. If 8789 `/healthz` fails twice (5 s apart) on `start` or before a tick, it logs `server not answering, restarting` and runs `bin/stop.sh; bin/start.sh`; `stop` never stops the server.
